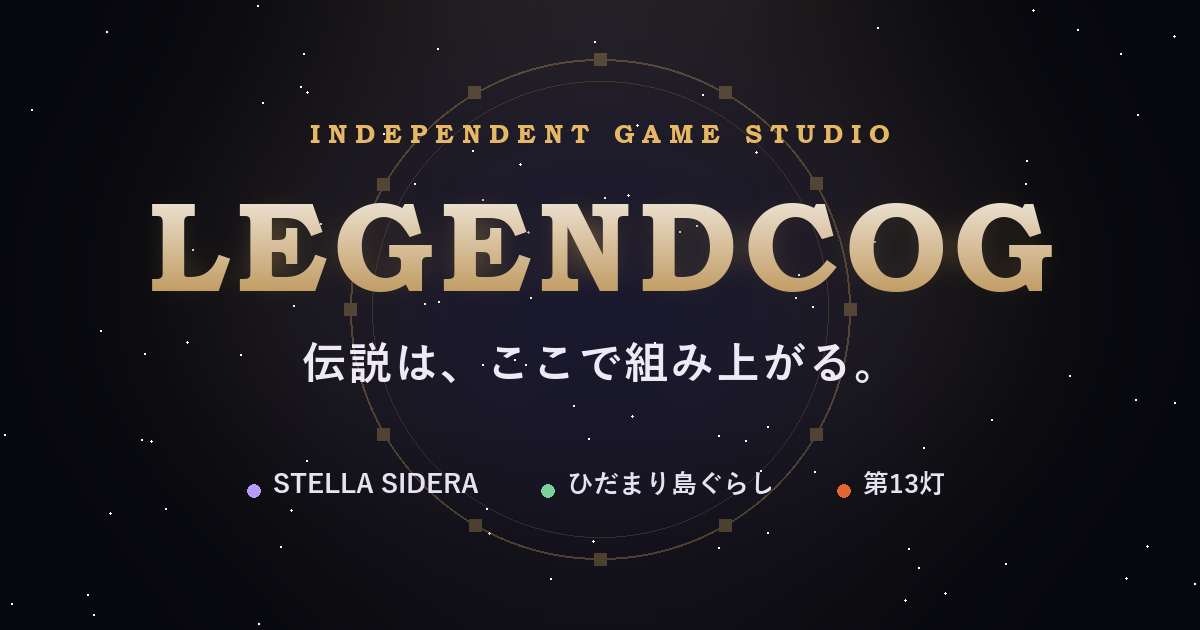
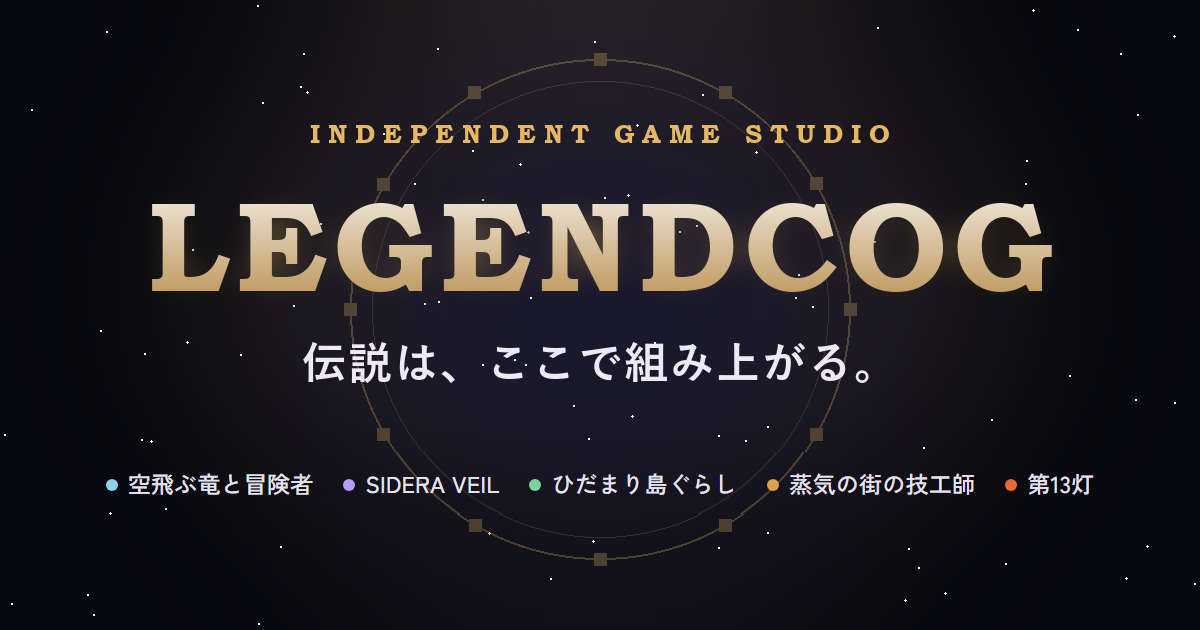
共有用の画像と説明文を今の5作品に合わせて更新（古い作品名 STELLA SIDERA をやめ、空飛ぶ竜と冒険者・蒸気の街の技工師を追加）

Changed region(s): [[0.0925, 0.7238, 0.925, 0.8143]]

diff --git a/index.html b/index.html
@@ -10,16 +10,16 @@
 <meta property="og:type" content="website">
 <meta property="og:site_name" content="LEGENDCOG">
 <meta property="og:title" content="LEGENDCOG — Independent Game Studio">
-<meta property="og:description" content="宇宙のカードバトル・島ぐらしシム・3DRPGを手がけるインディーゲームスタジオ。伝説は、ここで組み上がる。">
+<meta property="og:description" content="ダイスで進むテキストRPG、宇宙のカードバトル、島ぐらしシム、絵のない文章で遊ぶRPG、3DRPG――5つの世界を手がけるインディーゲームスタジオ。伝説は、ここで組み上がる。">
 <meta property="og:url" content="https://legendcog.com/">
-<meta property="og:image" content="https://legendcog.com/assets/ogp.png">
+<meta property="og:image" content="https://legendcog.com/assets/ogp.png?v=2">
 <meta property="og:image:width" content="1200">
 <meta property="og:image:height" content="630">
 <meta property="og:locale" content="ja_JP">
 <meta name="twitter:card" content="summary_large_image">
 <meta name="twitter:title" content="LEGENDCOG — Independent Game Studio">
-<meta name="twitter:description" content="宇宙のカードバトル・島ぐらしシム・3DRPGを手がけるインディーゲームスタジオ。伝説は、ここで組み上がる。">
-<meta name="twitter:image" content="https://legendcog.com/assets/ogp.png">
+<meta name="twitter:description" content="ダイスで進むテキストRPG、宇宙のカードバトル、島ぐらしシム、絵のない文章で遊ぶRPG、3DRPG――5つの世界を手がけるインディーゲームスタジオ。伝説は、ここで組み上がる。">
+<meta name="twitter:image" content="https://legendcog.com/assets/ogp.png?v=2">
 <!-- ▲▲ ここまで ▲▲ -->
 
 <meta name="theme-color" content="#07080e">
